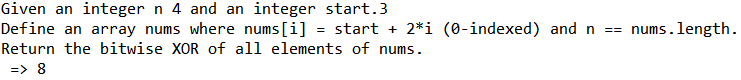
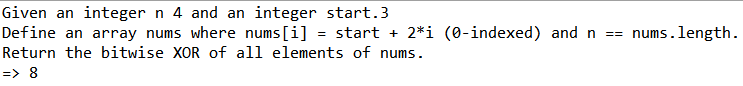
Leetcode.1486

diff --git a/XOR_Operation_in_an_Array/XOR_Operation_in_an_Array.java b/XOR_Operation_in_an_Array/XOR_Operation_in_an_Array.java
@@ -20,12 +20,36 @@ public class XOR_Operation_in_an_Array {
         return res;
     }
 	
+	
+	//trick implementation is provided by:https://leetcode.com/coder206/
+	private static int xorOperationB(int n, int start)
+    {
+        if (n % 2 == 0)
+            return (n / 2) & 1;
+        else
+            return ((n / 2) & 1) ^ (start + n - 1);
+    }
+    private static int xorOperationA(int n, int start)
+    {
+        if ((start & 1)==1)
+            return (start - 1) ^ xorOperationB(n + 1, start - 1);
+        else
+            return xorOperationB(n, start);
+    }    
+    public static int xorOperationTrick(int n, int start)
+    {
+        int ret = 2 * xorOperationA(n, start / 2);
+        if ((n & start & 1)==1) ret++;
+        return ret;
+    }
+    
+	
 	public static void main(String[] args) {
 		int n=4,start=3;
 		System.out.println("Given an integer n "+n+" and an integer start."+start);
 		System.out.println("Define an array nums where nums[i] = start + 2*i (0-indexed) and n == nums.length.");
 		System.out.println("Return the bitwise XOR of all elements of nums.");
-		System.out.println(" => "+xorOperation(n,start));
+		System.out.println("=> "+xorOperationTrick(n,start));
 	}
 
 }
